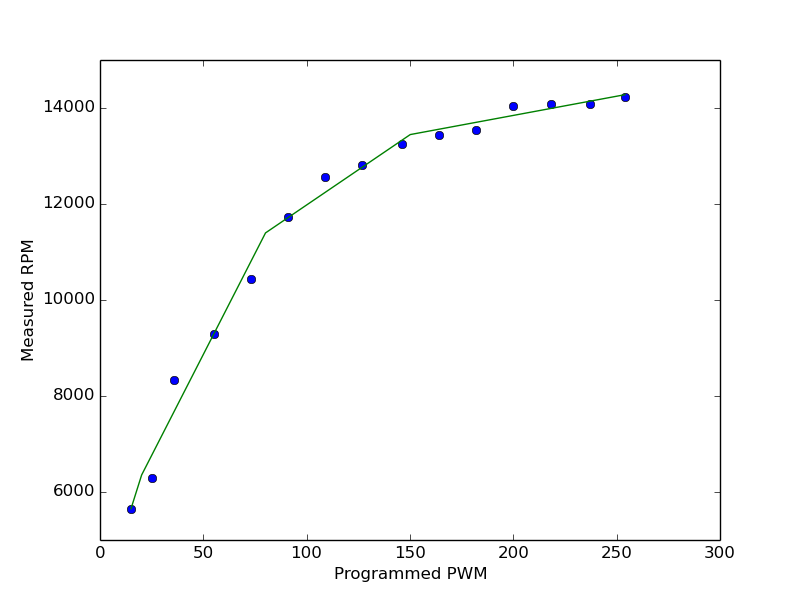
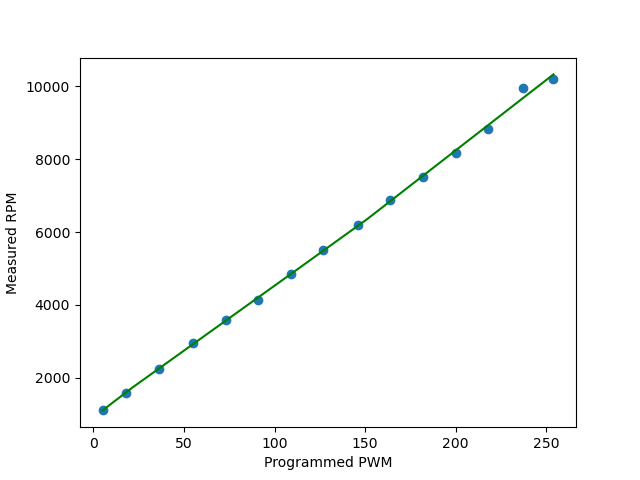
modify default.

diff --git a/grbl/defaults.h b/grbl/defaults.h
@@ -95,8 +95,8 @@
   #define DEFAULT_X_MAX_TRAVEL 234.0 // mm
   #define DEFAULT_Y_MAX_TRAVEL 196.0 // mm
   #define DEFAULT_Z_MAX_TRAVEL 72.0 // mm
-  #define DEFAULT_SPINDLE_RPM_MAX 14200.0 // rpm
-  #define DEFAULT_SPINDLE_RPM_MIN 7200.0  // rpm
+  #define DEFAULT_SPINDLE_RPM_MAX 10300 // rpm
+  #define DEFAULT_SPINDLE_RPM_MIN 1100 // rpm
   #define DEFAULT_STEP_PULSE_MICROSECONDS 10
   #define DEFAULT_STEPPING_INVERT_MASK 0
   #define DEFAULT_DIRECTION_INVERT_MASK 2
@@ -117,24 +117,23 @@
   #define DEFAULT_HOMING_SEEK_RATE 400.0 // mm/min
   #define DEFAULT_HOMING_DEBOUNCE_DELAY 25 // msec (0-65k)
   #define DEFAULT_HOMING_PULLOFF 2.0 // mm 
-  //Strom 755 
+  //Strom 300W 
   // #define ENABLE_PIECEWISE_LINEAR_SPINDLE  // Default disabled. Uncomment to enable.
-  #define N_PIECES 4  // Integer (1-4). Number of piecewise lines used in script solution.
-  #define RPM_MAX 14277.4 // Max RPM of model. $30 > RPM_MAX will be limited to RPM_MAX.
-  #define RPM_POINT12  6342.1  // Used N_PIECES >=2. Junction point between lines 1 and 2.
-  #define RPM_MIN 5652.0  // Min RPM of model. $31 < RPM_MIN will be limited to RPM_MIN.
-  #define RPM_POINT12 6342.1  // Used N_PIECES >=3. Junction point between lines 2 and 3.
-  #define RPM_POINT23 11395.1  // Used N_PIECES >=3. Junction point between lines 2 and 3.
-  #define RPM_POINT34 13445.6  // Used N_PIECES = 4. Junction point between lines 3 and 4.
-  #define RPM_LINE_A1 7.245251e-03  // Used N_PIECES >=1. A and B constants of line 1.
-  #define RPM_LINE_B1 2.595016e+01
-  #define RPM_LINE_A2 1.187414e-02  // Used N_PIECES >=2. A and B constants of line 2.
-  #define RPM_LINE_B2 5.530708e+01
-  #define RPM_LINE_A3 3.413841e-02  // Used N_PIECES >=3. A and B constants of line 3.
-  #define RPM_LINE_B3 3.090107e+02
-  #define RPM_LINE_A4 1.250303e-01  // Used N_PIECES = 4. A and B constants of line 4.
-  #define RPM_LINE_B4 1.531105e+03
-#endif
+  #define N_PIECES 4
+  #define RPM_MAX 10323.6
+  #define RPM_MIN 1109.2
+  #define RPM_POINT12 1682.6
+  #define RPM_POINT23 3815.4
+  #define RPM_POINT34 6311.2
+  #define RPM_LINE_A1 2.615974e-02
+  #define RPM_LINE_B1 2.401593e+01
+  #define RPM_LINE_A2 2.813245e-02
+  #define RPM_LINE_B2 2.733519e+01
+  #define RPM_LINE_A3 2.804645e-02
+  #define RPM_LINE_B3 2.700704e+01
+  #define RPM_LINE_A4 2.591953e-02
+  #define RPM_LINE_B4 1.358359e+01
+  #endif
 
 #ifdef DEFAULTS_STORM_755
   // Grbl generic default settings. Should work across different machines.

diff --git a/doc/script/fit_nonlinear_spindle.py b/doc/script/fit_nonlinear_spindle.py
@@ -115,7 +115,7 @@ USAGE:
     number of piecewise lines used in this model in config.h. Also set the '$30' and '$31'
     max and min rpm values to the solution values or in a range between them in Grbl '$' 
     settings. And finally, alter the SPINDLE_PWM_MIN_VALUE in cpu_map.h, if your spindle 
-    needs to be above a certain voltage to produce a useful low rpm.
+    needs to be above a certain voltage to produce a useful low rpm.14232
     
   - Once the solution is entered. Recompile and flash Grbl. This solution model is only 
     valid for this particular set of data. If the machine is altered, you will need to 
@@ -159,12 +159,16 @@ n_pieces = 4 # Number of line segments used for data fit. Only 1 to 4 line segme
 # value and end with the maximum useful PWM or 'S' programmed value. Order of the array must
 # be synced with the RPM_measured array below. 
 # NOTE: ** DO NOT USE DATA FROM AN EXISTING PIECEWISE LINE FIT. USE DEFAULT GRBL MODEL ONLY. **
-PWM_set = np.array([15,25,36,55,73,91,109,127,146,164,182,200,218,237,254], dtype=float)
+# PWM_set = np.array([2,18,36,55,73,91,109,127,146,164,182,200,218,237,254], dtype=float)
+
+PWM_set = np.array([5,18,36,55,73,91,109,127,146,164,182,200,218,237,254], dtype=float)
 
 # Actual RPM measured at the spindle. Must be in the ascending value and equal in length 
 # as the PWM_set array. Must include the min and max measured rpm output in the first and 
 # last array entries, respectively.
-RPM_measured = np.array([5652,6299,8332,9284,10435,11719,12565,12811,13260,13436,13535,14039,14087,14089,14232], dtype=float)
+# RPM_measured = np.array([213.,5420,7145,8282,9165,9765,10100,10500,10700,10900,11100,11250,11400,11550,11650], dtype=float)
+
+RPM_measured = np.array([1110,1600,2240,2950,3600,4150,4850,5510,6200,6870,7520,8160,8830,9950,10200], dtype=float)
 
 # Configure line fit points by 'S' programmed rpm or PWM value. Values must be between 
 # PWM_max and PWM_min. Typically, alter these values to space the points evenly between 
